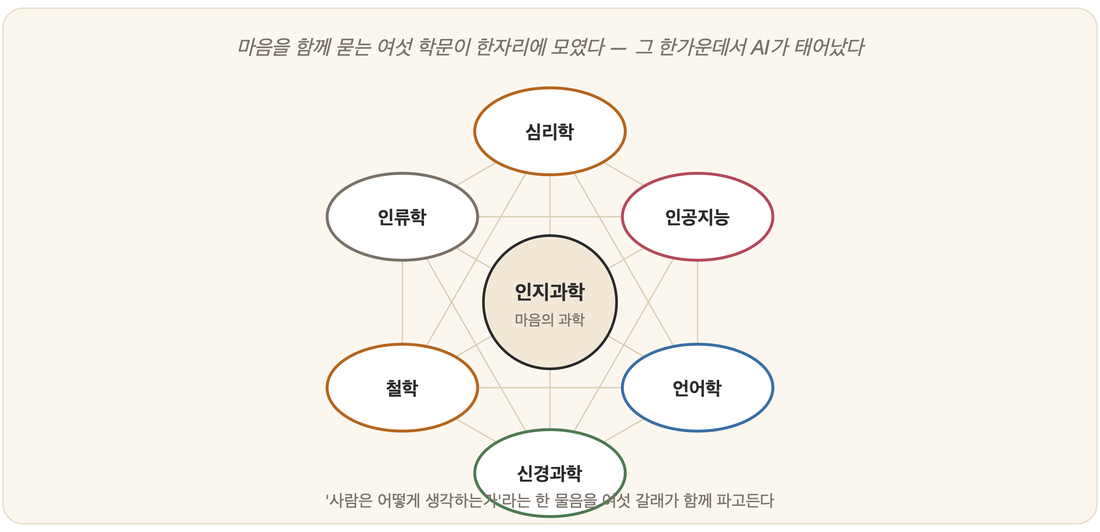
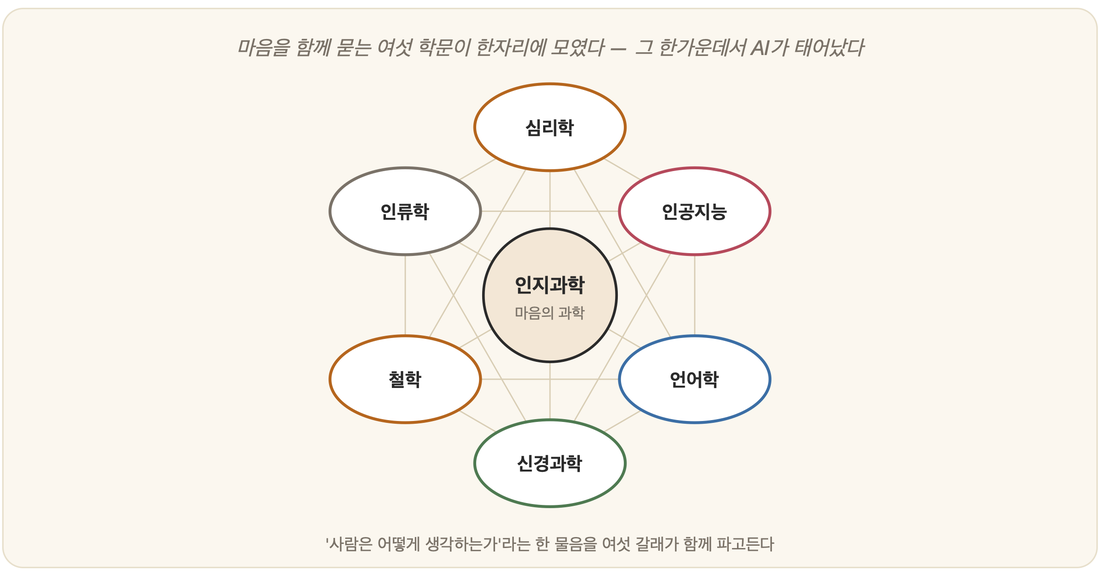
전권 점검 후 수정: 문체 일관성(정리·서술 ~다체) + 도식 레이아웃 보정
- 정리/서술의 잔여 '습니다'체 6개 파일 → ~다체 통일(생각해보기 정중체·인용 대사는 유지)
- state-space: 자식 보드 3개 겹침 해소(간격 확대)
- cognitive-hexagon: 하단 노드와 캡션 겹침 해소(캔버스 확대)

Changed region(s): [[0.2164, 0.0602, 0.8036, 0.9925]]

diff --git a/tools/gen_batch1.py b/tools/gen_batch1.py
@@ -44,10 +44,10 @@ s.append(f'<text x="{W/2}" y="{H-18}" text-anchor="middle" font-size="12" fill="
 save("complexity-bigo.svg",s)
 
 # ── 2. 상태공간/탐색 트리 (10-01) ──
-W,H=760,330
+W,H=760,360
 s=head(W,H,"문제를 \'상태\'와 \'연산자\'로 바꾸면, 푸는 일은 곧 길찾기가 된다")
 # 8-퍼즐 미니 보드 그리기
-def puzzle(cx,cy,grid,cell=22,hl=False):
+def puzzle(cx,cy,grid,cell=20,hl=False):
     out=[]; n=3; x0=cx-n*cell/2; y0=cy-n*cell/2
     out.append(f'<rect x="{x0-3}" y="{y0-3}" width="{n*cell+6}" height="{n*cell+6}" rx="5" fill="{BAND if hl else WHT}" stroke="{ACC if hl else INK}" stroke-width="{1.8 if hl else 1.2}"/>')
     for r in range(n):
@@ -59,20 +59,20 @@ def puzzle(cx,cy,grid,cell=22,hl=False):
     return out
 start=[1,2,3,4,0,5,6,7,8]
 ch1=[1,2,3,0,4,5,6,7,8]; ch2=[1,2,3,4,7,5,6,0,8]; ch3=[1,2,3,4,5,0,6,7,8]
-s+=puzzle(140,150,start,hl=True); s.append(f'<text x="140" y="210" text-anchor="middle" font-size="11.5" fill="{ACC}" font-weight="bold">시작 상태</text>')
-for (g,cx) in [(ch1,360),(ch2,400),(ch3,440)]:
-    pass
-# 가지 3개
-kids=[(330,90,ch1,"빈칸 ←"),(330,150,ch2,"빈칸 ↓"),(330,235,ch3,"빈칸 →")]
+SY=180
+s+=puzzle(130,SY,start,hl=True); s.append(f'<text x="130" y="{SY+52}" text-anchor="middle" font-size="11.5" fill="{ACC}" font-weight="bold">시작 상태</text>')
+# 가지 3개 (세로로 충분히 띄움)
+kids=[(360,95,ch1,"빈칸 ←"),(360,185,ch2,"빈칸 ↓"),(360,275,ch3,"빈칸 →")]
 for cx,cy,g,lab in kids:
-    s.append(line(178,150,cx-44,cy,GRAY,1.4))
+    s.append(line(168,SY,cx-40,cy,GRAY,1.4))
     s+=puzzle(cx,cy,g)
-    s.append(f'<text x="{cx}" y="{cy+44}" text-anchor="middle" font-size="10.5" fill="{GRAY}">{lab}</text>')
+    s.append(f'<text x="{cx+52}" y="{cy+4}" text-anchor="middle" font-size="10.5" fill="{GRAY}">{lab}</text>')
 # 목표 표시(오른쪽)
 goal=[1,2,3,4,5,6,7,8,0]
-s+=puzzle(620,150,goal,hl=True); s.append(f'<text x="620" y="210" text-anchor="middle" font-size="11.5" fill="{GRN}" font-weight="bold">목표 상태</text>')
-s.append(line(452,90,560,150,GRAY,1.2,dash="4,4")); s.append(line(452,235,560,150,GRAY,1.2,dash="4,4"))
-s.append(f'<text x="490" y="120" text-anchor="middle" font-size="11" fill="{GRAY}">…연산자를 거듭 적용…</text>')
+s+=puzzle(630,SY,goal,hl=True); s.append(f'<text x="630" y="{SY+52}" text-anchor="middle" font-size="11.5" fill="{GRN}" font-weight="bold">목표 상태</text>')
+s.append(line(440,95,560,SY,GRAY,1.2,dash="4,4")); s.append(line(440,275,560,SY,GRAY,1.2,dash="4,4"))
+s.append(f'<text x="500" y="150" text-anchor="middle" font-size="11" fill="{GRAY}">…연산자를</text>')
+s.append(f'<text x="500" y="166" text-anchor="middle" font-size="11" fill="{GRAY}">거듭 적용…</text>')
 s.append(f'<text x="{W/2}" y="{H-16}" text-anchor="middle" font-size="12" fill="{GRAY}">상태(보드 배치) · 연산자(빈칸 밀기) · 목표(정렬). 시작에서 목표까지의 경로를 찾는 일</text>')
 save("state-space.svg",s)
 

diff --git a/tools/gen_batch3.py b/tools/gen_batch3.py
@@ -72,9 +72,9 @@ s.append(f'<text x="{W/2}" y="{H-12}" text-anchor="middle" font-size="11.5" fill
 save("prolog-resolution.svg",s)
 
 # ── 3. 인지과학 학제간 육각형 ──
-W,H=760,360
+W,H=760,390
 s=head(W,H,"마음을 함께 묻는 여섯 학문이 한자리에 모였다 — 그 한가운데서 AI가 태어났다")
-cx,cy,r=380,205,118
+cx,cy,r=380,200,116
 fields=[("심리학",ACC),("인공지능",RED),("언어학",BLU),("신경과학",GRN),("철학",ACC),("인류학",GRAY)]
 pts=[]
 for i in range(6):

diff --git a/pages/09-04-computability-pnp.md b/pages/09-04-computability-pnp.md
@@ -39,8 +39,8 @@ NP 안에서도 '가장 어려운' 무리가 따로 있다. NP-완전(NP-complet
 ### 정리
 
 - 계산가능성은 '풀 수 있는가'를, 복잡도는 '현실적인 시간 안에 풀 수 있는가'를 묻는다. 정지문제처럼 아예 풀 수 없는 결정불가능 문제가 존재한다.
-- P는 빠르게 푸는 쉬운 문제, NP는 답을 받으면 빠르게 검산할 수 있는 문제입니다. NP는 '다항식이 아님'이 아니라 '풀리는지 모름'을 뜻합니다.
-- NP-완전 문제(외판원·배낭)는 NP 중 가장 어려운 무리로, 하나만 빨리 풀어도 전부 풀립니다. P = NP는 여전히 미해결이며, 현실에서는 근사와 휴리스틱으로 우회합니다.
+- P는 빠르게 푸는 쉬운 문제, NP는 답을 받으면 빠르게 검산할 수 있는 문제다. NP는 '다항식이 아님'이 아니라 '풀리는지 모름'을 뜻한다.
+- NP-완전 문제(외판원·배낭)는 NP 중 가장 어려운 무리로, 하나만 빨리 풀어도 전부 풀린다. P = NP는 여전히 미해결이며, 현실에서는 근사와 휴리스틱으로 우회한다.
 
 ### 생각해보기
 

diff --git a/pages/08-04-neuromorphic.md b/pages/08-04-neuromorphic.md
@@ -26,7 +26,7 @@
 
 뉴로모픽은 저전력으로, 실시간으로, 항시 깨어 있어야 하는 곳에서 빛난다. 센서와 로봇, 그리고 클라우드까지 신호를 보낼 여유가 없는 엣지 기기들이 그런 자리다. 다만 아직은 연구의 영역이다. 프로그래밍하는 방식이 까다롭고, 무르익은 딥러닝 생태계와의 거리도 멀다. 그럼에도 분명한 것이 하나 있다. 뉴로모픽이 던지는 물음이 이 여정 전체의 주제와 맞닿아 있다는 점이다 — 지능은 알고리즘에만 깃드는가, 아니면 그것을 떠받치는 '구조' 자체에도 스며드는가?
 
-> 뉴런(08-01) → 인공신경망(08-03) → **뉴런 칩(08-04)**. 같은 영감이 이론에서 알고리즘으로, 다시 실리콘으로 옮겨지는 여정입니다.
+> 뉴런(08-01) → 인공신경망(08-03) → **뉴런 칩(08-04)**. 같은 영감이 이론에서 알고리즘으로, 다시 실리콘으로 옮겨지는 여정이다.
 
 ---
 

diff --git a/pages/09-01-turing-machine.md b/pages/09-01-turing-machine.md
@@ -12,7 +12,7 @@
 
 튜링의 진짜 혁명은 그다음에 왔다. 보편 튜링 기계(Universal Turing Machine)다. 다른 튜링 기계의 규칙표—즉 프로그램—를 테이프 위에 한낱 데이터로 입력받아, 그 기계를 그대로 흉내 내는 단 하나의 기계. 기계가 다른 기계를 삼키는 셈이다.
 
-> 이것이 바로 **'프로그램 가능한 컴퓨터'의 이론적 청사진**입니다.
+> 이것이 바로 **'프로그램 가능한 컴퓨터'의 이론적 청사진**이다.
 > 하드웨어를 바꾸지 않고, 입력하는 프로그램만 바꾸면 다른 일을 하는 기계 — 지금 당신의 컴퓨터와 스마트폰이 정확히 이 원리 위에 있다.
 
 ## 계산할 수 있는 것과 없는 것
